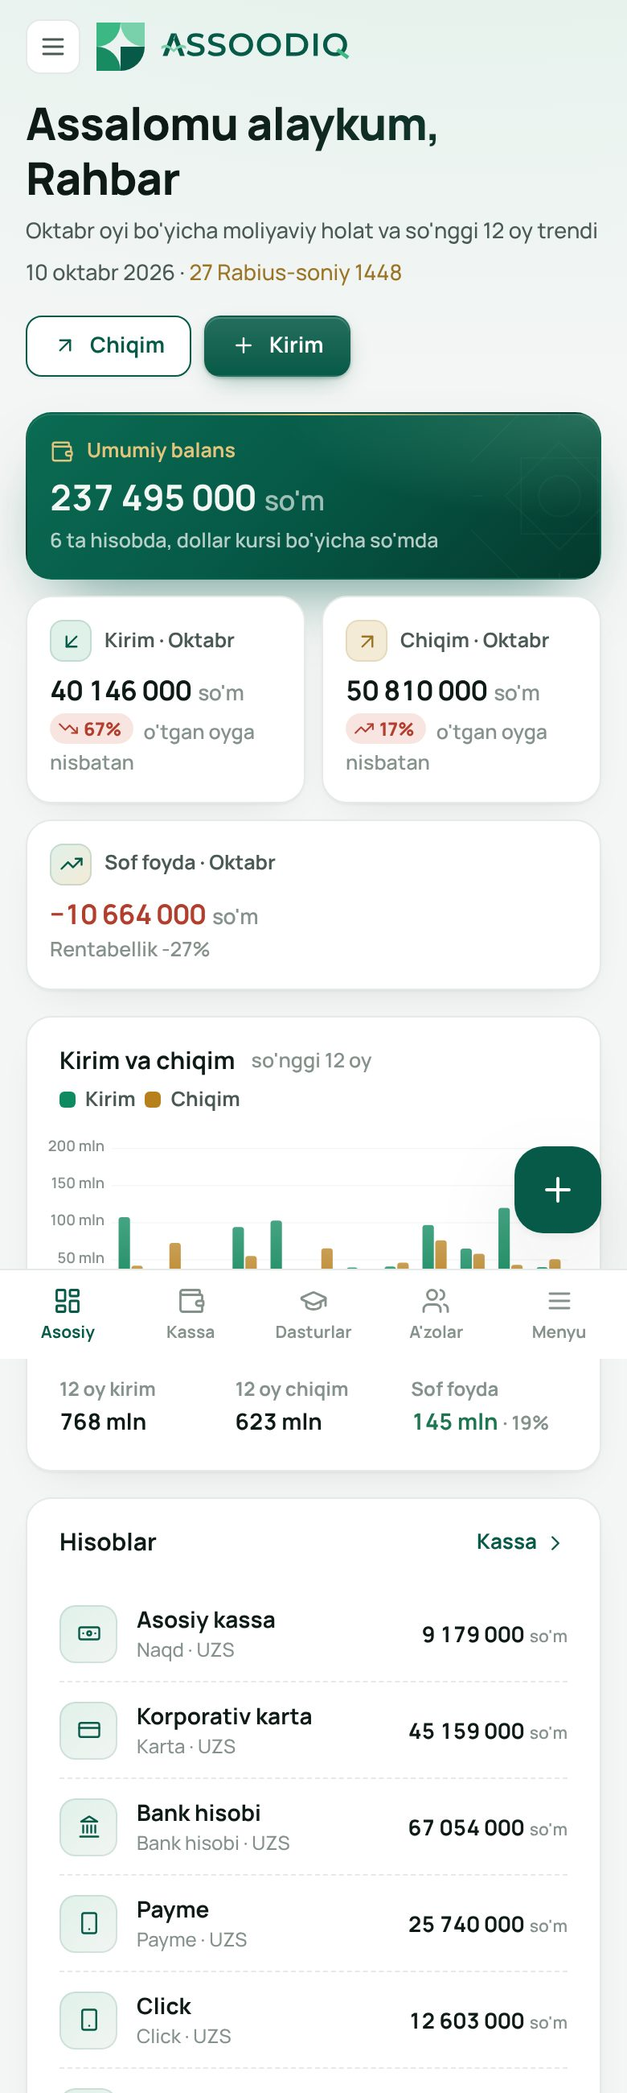
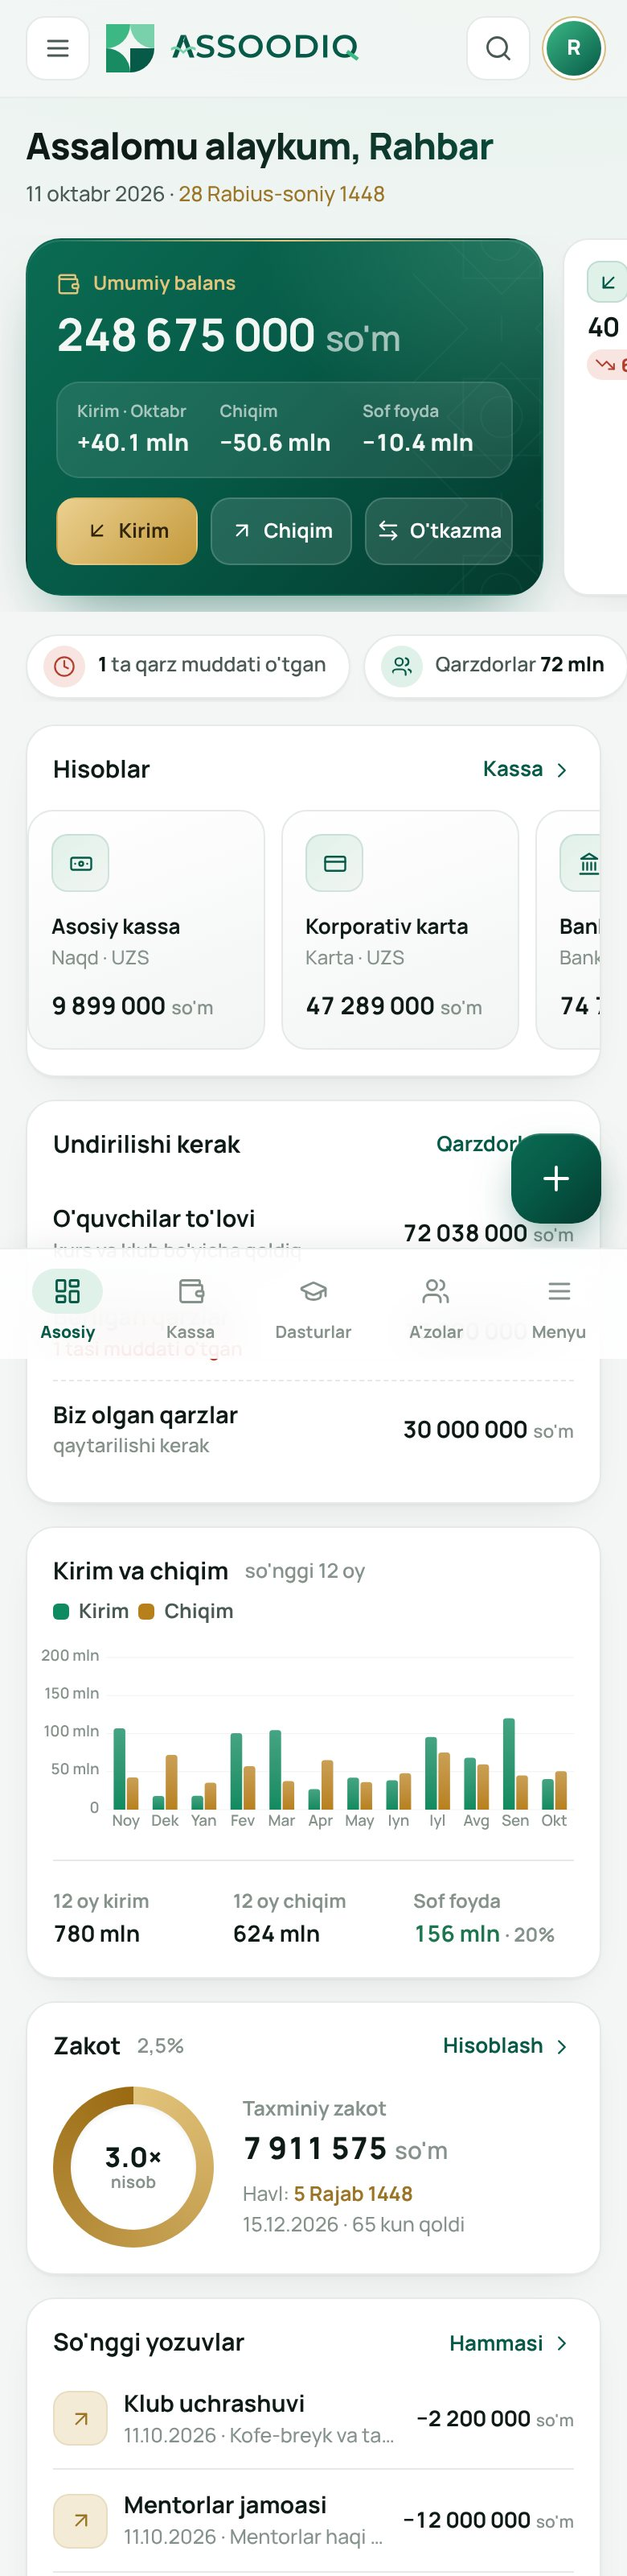
feat(mobil): premium telefon ko'rinishi, muhim ma'lumot birinchi
- Bosh sahifa: balans kartasida oy yakuni va tezkor amallar, diqqat chiplari,
  bloklar ahamiyat bo'yicha tartiblanadi, hisoblar karta lentasi
- Shisha yuqori panel (qidiruv, avatar) va pastki menyu, faol bo'lim belgisi
- Ichki sahifalar: amallar bitta qatorda, ixcham 2x2 ko'rsatkichlar
- A'zolar, dastur va qarz ro'yxatlari ixcham kartochkalar ko'rinishida
- Kassa: oy yakuni uchta aniq raqamda, hisoblar suriladigan lenta

Claude-Session: https://claude.ai/code/session_01DkcMtNmmPnFdSFcGHH43mz

diff --git a/static/css/app.css b/static/css/app.css
@@ -231,7 +231,8 @@ a.stat:hover { border-color: var(--line2); }
 a.stat { transition: box-shadow .2s, transform .2s, border-color .2s; }
 a.stat:hover, .prog:hover { box-shadow: var(--shadow-hover); transform: translateY(-2px); }
 /* Sahifa ochilganda kartalar yumshoq, ketma-ket paydo bo'ladi */
-.wrap > .head, .wrap > .stats > *, .wrap > .card, .wrap > .grid > *, .prog-grid > *, .wrap > .toolbar {
+.wrap > .head, .wrap > .stats > *, .wrap > .card, .wrap > .grid > *, .prog-grid > *, .wrap > .toolbar,
+.dash > .stats > *, .dash > .card, .dash > .grid > * {
   animation: rise .5s cubic-bezier(.2, .7, .2, 1) both; }
 .wrap > .stats > :nth-child(2) { animation-delay: .04s; } .wrap > .stats > :nth-child(3) { animation-delay: .08s; }
 .wrap > .stats > :nth-child(4) { animation-delay: .12s; } .wrap > .stats > :nth-child(n+5) { animation-delay: .16s; }
@@ -754,3 +755,147 @@ dialog.modal[open] { animation: pop .22s cubic-bezier(.2, .8, .2, 1); }
 .prog:hover::before { opacity: 1; }
 
 @media (prefers-reduced-motion: reduce) { .flash::after, dialog.modal[open] { animation: none !important; } }
+
+
+/* ══ Telefon: premium va muhim ma'lumot birinchi ══════════════════════════ */
+.hero-m, .m-alerts, .topbar-search, .topbar-av, .k-sum { display: none; }
+@media (max-width: 860px) {
+  body { font-size: 14.5px; }
+  .main { padding-top: 0; }
+  /* Yuqori panel: shisha, yopishqoq */
+  .topbar { position: sticky; top: 0; z-index: 40; margin: 0 -16px 16px; padding: 10px 16px; gap: 10px;
+    background: color-mix(in srgb, var(--bg) 80%, transparent); -webkit-backdrop-filter: saturate(1.4) blur(14px); backdrop-filter: saturate(1.4) blur(14px);
+    border-bottom: 1px solid color-mix(in srgb, var(--line) 80%, transparent); }
+  .topbar .icon-btn { width: 40px; height: 40px; border-radius: 12px; }
+  .topbar-search { display: grid; margin-left: auto; }
+  .topbar-av { display: grid; width: 34px; height: 34px; font-size: 13px; }
+  .head-t { font-size: 23px; letter-spacing: -.5px; }
+  .head { margin-bottom: 16px; gap: 12px; }
+  .card { border-radius: 18px; }
+  .card-h { padding: 16px 16px 0; }
+  .card-b { padding: 14px 16px 16px; }
+
+  /* Bosh sahifa: bloklar ahamiyat bo'yicha qayta tartiblanadi */
+  .dash { display: flex; flex-direction: column; gap: 14px; }
+  .dash > .grid { display: contents; }
+  .dash .mt { margin-top: 0; }
+  .dash > .o-stats { order: 1; } .dash > .o-alerts { order: 2; } .dash .o-acc { order: 3; }
+  .dash .o-due { order: 4; } .dash .o-chart { order: 5; } .dash .o-zakot { order: 6; }
+  .dash .o-recent { order: 7; } .dash .o-prog { order: 8; } .dash .o-exp { order: 9; }
+  .dash .o-attn { display: none; } /* yuqoridagi "diqqat" chiplari o'rnini bosadi */
+  .dash-head .head-a, .dash-head .head-s:not(.mob-only) { display: none; }
+
+  /* Balans + ko'rsatkichlar: suriladigan kartochkalar */
+  .dash .stats { display: flex; gap: 12px; overflow-x: auto; scroll-snap-type: x mandatory; margin: 0 -16px; padding: 2px 16px 10px; scrollbar-width: none; }
+  .dash .stats::-webkit-scrollbar { display: none; }
+  .dash .stats > .stat { flex: 0 0 74%; scroll-snap-align: start; scroll-margin-left: 16px; }
+  .dash .stats > .stat.hero { flex-basis: 90%; padding: 18px; border-radius: 22px; }
+  .dash .stat.hero .stat-v { font-size: 28px; letter-spacing: -.6px; }
+  .dash .stat.hero .stat-s { display: none; }
+  .dash .spark { display: block; }
+  .dash .has-spark .stat-l { padding-right: 84px; }
+  .hero-m { display: block; position: relative; z-index: 1; }
+  .hero-sum { display: grid; grid-template-columns: repeat(3, 1fr); gap: 8px; margin: 14px 0 12px; padding: 10px 12px; border-radius: 14px; background: rgba(255, 255, 255, .09); border: 1px solid rgba(255, 255, 255, .10); }
+  .hero-sum span { display: block; font-size: 10.5px; font-weight: 700; color: rgba(242, 247, 244, .65); white-space: nowrap; overflow: hidden; text-overflow: ellipsis; }
+  .hero-sum b { font-size: 14.5px; font-weight: 800; font-variant-numeric: tabular-nums; }
+  .hero-act { display: grid; grid-template-columns: repeat(3, 1fr); gap: 8px; }
+  .hero-act button { height: 42px; border-radius: 12px; border: 1px solid rgba(255, 255, 255, .16); background: rgba(255, 255, 255, .12); color: #fff; font: 700 12.5px var(--font); display: inline-flex; align-items: center; justify-content: center; gap: 6px; cursor: pointer; touch-action: manipulation; }
+  .hero-act button:first-child { background: linear-gradient(135deg, #EBD08F, #C49A3C); color: #33250A; border-color: transparent; }
+  .hero-act button:active { transform: scale(.97); }
+
+  /* Diqqat chiplari */
+  .m-alerts { display: flex; gap: 8px; overflow-x: auto; margin: 0 -16px; padding: 0 16px 2px; scrollbar-width: none; }
+  .m-alerts::-webkit-scrollbar { display: none; }
+  .m-alerts:empty { display: none; }
+  .m-alert { flex: none; display: inline-flex; align-items: center; gap: 8px; height: 40px; padding: 0 14px 0 10px; border-radius: 999px; background: var(--surface); border: 1px solid var(--line); box-shadow: var(--shadow); font-size: 12.5px; font-weight: 600; color: var(--txt2); white-space: nowrap; }
+  .m-alert .ic { width: 26px; height: 26px; padding: 6px; border-radius: 50%; background: var(--brand-bg); color: var(--brand-txt); }
+  .m-alert b { color: var(--txt); font-weight: 800; }
+  .m-alert.bad .ic { background: var(--bad-bg); color: var(--bad); }
+  .m-alert.warn .ic { background: var(--warn-bg); color: var(--warn); }
+  .m-alert.info .ic { background: var(--info-bg); color: var(--info); }
+  .m-alert.gold .ic { background: var(--gold-bg); color: var(--gold); }
+
+  /* Hisoblar: bank kartalaridek gorizontal lenta */
+  .o-acc .card-b { display: flex; gap: 10px; overflow-x: auto; scroll-snap-type: x mandatory; scrollbar-width: none; padding-bottom: 16px; }
+  .o-acc .card-b::-webkit-scrollbar { display: none; }
+  .o-acc .acc { flex: 0 0 148px; scroll-snap-align: start; flex-direction: column; align-items: flex-start; gap: 10px; padding: 14px; border: 1px solid var(--line); border-radius: 16px;
+    background: linear-gradient(160deg, var(--surface), var(--surface2)); }
+  .o-acc .acc .r { margin-left: 0; font-size: 15px; }
+  .o-acc .acc > div:nth-child(2) b { font-size: 13px; }
+
+  /* Daftar qatori: izoh bitta qatorda, summa aniq ko'rinadi */
+  .tx { gap: 10px; }
+  .tx-m span { display: block; white-space: nowrap; overflow: hidden; text-overflow: ellipsis; }
+  .tx-a { font-size: 13.5px; }
+  /* Dasturlar: telefonda faqat foyda va to'lov holati */
+  .o-prog td:nth-child(2), .o-prog td:nth-child(3) { display: none !important; }
+  /* Uzun ro'yxatlar qisqaradi */
+  .o-prog tbody tr:nth-child(n+4), .o-recent .tx:nth-child(n+6) { display: none; }
+
+  /* Kassa: hisob kartalari ham suriladi */
+  .acc-stats { display: flex; gap: 10px; overflow-x: auto; scroll-snap-type: x mandatory; margin: 0 -16px 14px; padding: 2px 16px 8px; scrollbar-width: none; }
+  .acc-stats::-webkit-scrollbar { display: none; }
+  .acc-stats .stat { flex: 0 0 58%; scroll-snap-align: start; scroll-margin-left: 16px; }
+
+  /* Sahifa sarlavhasi: amallar bitta qatorda, teng kenglikda */
+  .head > div:first-child { min-width: 0; }
+  .head-s { font-size: 13px; }
+  .head-a { flex-wrap: nowrap; gap: 8px; }
+  .head-a > .btn, .head-a > form { flex: 1 1 0; min-width: 0; }
+  .head-a > .btn { height: 42px; padding: 0 10px; font-size: 13px; justify-content: center; white-space: nowrap; overflow: hidden; text-overflow: ellipsis; border-radius: 12px; }
+  .head-a > .btn.solid { flex-grow: 1.4; }
+  .crumb { margin-bottom: 10px; }
+
+  /* Ichki sahifa ko'rsatkichlari: 2×2, ixcham va aniq */
+  .stats { gap: 10px; }
+  .stats > .stat { padding: 13px 14px; border-radius: 16px; }
+  .stats .stat-l { font-size: 12px; }
+  .stats .stat-v { font-size: 16.5px; margin-top: 6px; }
+  .stats .stat-s { font-size: 11.5px; margin-top: 4px; }
+
+  /* Ro'yxat kartochkalari: ism, so'ng raqamlar ustun-ustun, oxirida amal */
+  .table.tiles tbody tr { display: grid; grid-template-columns: repeat(3, minmax(0, 1fr)); gap: 10px 12px; padding: 14px 2px; }
+  .table.tiles.t2 tbody tr { grid-template-columns: repeat(2, minmax(0, 1fr)); }
+  .table.tiles td { width: auto; padding: 0; display: flex; flex-direction: column; align-items: flex-start; justify-content: flex-start; gap: 3px; text-align: left; font-size: 13.5px; font-weight: 650; min-width: 0; }
+  .table.tiles td.r { text-align: left; }
+  .table.tiles td:first-child, .table.tiles td.wide, .table.tiles td[colspan] { grid-column: 1 / -1; margin: 0; }
+  .table.tiles td:first-child .t-main { font-size: 15px; font-weight: 750; }
+  .table.tiles td .lbl { font-size: 10.5px; font-weight: 700; letter-spacing: .3px; text-transform: uppercase; }
+  .table.tiles td:empty { display: none; }
+  .table.tiles td:last-child:not(:first-child):not(:has(.lbl)) { grid-column: 1 / -1; flex-direction: row; align-items: center; gap: 8px; }
+  .table.tiles td:last-child .btn.sm { flex: 1; height: 38px; border-radius: 11px; font-size: 13px; }
+  .table.tiles td:last-child .more { margin-left: auto; }
+  .table.tiles td .bar { width: 100%; min-width: 0 !important; }
+
+  .stats > .stat:last-child:nth-child(odd) { grid-column: 1 / -1; }
+  .table.tiles td > div { width: 100%; }
+  .ayah { padding: 14px 16px; font-size: 13.5px; }
+
+  /* Kassa: oy yakuni uchta aniq raqamda */
+  .k-meta { display: none; }
+  .k-sum { display: grid; grid-template-columns: repeat(3, minmax(0, 1fr)); margin: -4px 0 14px; padding: 12px 4px; border-radius: 16px; background: var(--surface); border: 1px solid var(--line); box-shadow: var(--shadow); }
+  .k-sum > div { padding: 0 12px; min-width: 0; }
+  .k-sum > div + div { border-left: 1px solid var(--line); }
+  .k-sum span { display: block; font-size: 11px; font-weight: 700; color: var(--txt3); letter-spacing: .2px; }
+  .k-sum b { display: block; margin-top: 3px; font-size: 15px; font-weight: 800; font-variant-numeric: tabular-nums; white-space: nowrap; overflow: hidden; text-overflow: ellipsis; }
+
+  /* Pastki menyu: shisha va faol bo'lim belgisi */
+  .bottom-nav { background: color-mix(in srgb, var(--surface) 82%, transparent); -webkit-backdrop-filter: saturate(1.5) blur(16px); backdrop-filter: saturate(1.5) blur(16px);
+    border-top: 1px solid color-mix(in srgb, var(--line) 80%, transparent); box-shadow: 0 -8px 24px -12px rgba(14, 26, 21, .12); padding-top: 8px; }
+  .bottom-nav a, .bottom-nav button { gap: 4px; touch-action: manipulation; min-height: 48px; }
+  .bottom-nav .ic { width: 44px; height: 28px; padding: 5px 12px; border-radius: 999px; transition: background .2s; }
+  .bottom-nav .on .ic { background: var(--brand-bg); color: var(--brand-txt); }
+  .bottom-nav .on { font-weight: 800; }
+  .fab { width: 56px; height: 56px; border-radius: 18px; background: var(--grad-em); box-shadow: 0 1px 0 rgba(255, 255, 255, .15) inset, 0 12px 28px -8px rgba(6, 90, 71, .6); bottom: calc(84px + env(safe-area-inset-bottom)); }
+  .fab:active { transform: scale(.95); }
+
+  /* Pastdan chiqadigan oyna: tortish tutqichi */
+  .modal-h { padding-top: 24px; }
+  .modal-h::before { content: ""; position: absolute; top: 9px; left: 50%; width: 40px; height: 4px; margin-left: -20px; border-radius: 2px; background: var(--line2); }
+  .modal-f { padding-bottom: calc(16px + env(safe-area-inset-bottom)); }
+  .modal-f .btn { flex: 1; height: 46px; }
+}
+@media (max-width: 380px) {
+  .hero-sum b { font-size: 13px; }
+  .dash .stats > .stat { flex-basis: 80%; }
+}

diff --git a/templates/pages/dashboard.html b/templates/pages/dashboard.html
@@ -1,7 +1,7 @@
 {% extends "base.html" %}
 {% block title %}Bosh sahifa{% endblock %}
 {% block content %}
-<div class="head">
+<div class="head dash-head">
   <div>
     <div class="head-t">Assalomu alaykum, {{ g.user.name.split(' ')[0] }}</div>
     <div class="head-s">{{ month_name }} oyi bo'yicha moliyaviy holat va so'nggi 12 oy trendi</div>
@@ -13,11 +13,25 @@
   </div>
 </div>
 
-<div class="stats">
+<div class="dash">
+<div class="stats o-stats">
   <div class="stat hero">
     <div class="stat-l">{{ ui.icon('wallet', 'sm') }} Umumiy balans</div>
     <div class="stat-v">{{ ui.som(total) }}</div>
     <div class="stat-s">{{ accounts|length }} ta hisobda, dollar kursi bo'yicha so'mda</div>
+    {# Telefon: shu oy xulosasi va tez amallar balans kartasining o'zida #}
+    <div class="hero-m">
+      <div class="hero-sum">
+        <div><span>Kirim · {{ month_name }}</span><b>+{{ cur.income|short }}</b></div>
+        <div><span>Chiqim</span><b>−{{ cur.expense|short }}</b></div>
+        <div><span>Sof foyda</span><b>{{ cur.profit|short }}</b></div>
+      </div>
+      <div class="hero-act">
+        <button type="button" data-open="tx-modal" data-set-kind="kirim">{{ ui.icon('in', 'sm') }}Kirim</button>
+        <button type="button" data-open="tx-modal" data-set-kind="chiqim">{{ ui.icon('out', 'sm') }}Chiqim</button>
+        <button type="button" data-open="tx-modal" data-set-kind="otkazma">{{ ui.icon('swap', 'sm') }}O'tkazma</button>
+      </div>
+    </div>
   </div>
   <div class="stat has-spark">
     {{ ui.spark(series|map(attribute='income'), 'in', 'var(--chart-in)', '12 oylik kirim trendi') }}
@@ -39,8 +53,17 @@
   </div>
 </div>
 
+{# Telefon: e'tibor talab qiladigan narsalar — balansdan keyin darhol #}
+<div class="m-alerts o-alerts" aria-label="Diqqat talab">
+  {% if debts.overdue %}<a class="m-alert bad" href="{{ url_for('qarz.debts', holat='otgan') }}">{{ ui.icon('clock', 'sm') }}<span><b>{{ debts.overdue }}</b> ta qarz muddati o'tgan</span></a>{% endif %}
+  {% if member_due > 0 %}<a class="m-alert" href="{{ url_for('dastur.members', holat='qarzdor') }}">{{ ui.icon('users', 'sm') }}<span>Qarzdorlar <b>{{ member_due|short }}</b></span></a>{% endif %}
+  {% if expiring %}<a class="m-alert info" href="{{ url_for('dastur.members', holat='tugayapti') }}">{{ ui.icon('renew', 'sm') }}<span><b>{{ expiring|length }}</b> ta obuna tugayapti</span></a>{% endif %}
+  {% if purif.remaining > 0 %}<a class="m-alert warn" href="{{ url_for('islomiy.purity') }}">{{ ui.icon('shield', 'sm') }}<span>Tozalash <b>{{ purif.remaining|short }}</b></span></a>{% endif %}
+  {% if hawl %}<a class="m-alert gold" href="{{ url_for('islomiy.zakat') }}">{{ ui.icon('coins', 'sm') }}<span>Zakot <b>{{ hawl.days }}</b> kunda</span></a>{% endif %}
+</div>
+
 <div class="grid g-main">
-  <div class="card">
+  <div class="card o-chart">
     <div class="card-h">
       <h3>Kirim va chiqim</h3><span class="sub">so'nggi 12 oy</span>
       <div class="act legend"><span><i style="background:var(--chart-in)"></i>Kirim</span><span><i style="background:var(--chart-out)"></i>Chiqim</span></div>
@@ -56,7 +79,7 @@
     </div>
   </div>
 
-  <div class="card">
+  <div class="card o-acc">
     <div class="card-h"><h3>Hisoblar</h3><div class="act"><a class="link" href="{{ url_for('kassa.ledger') }}">Kassa {{ ui.icon('right', 'sm') }}</a></div></div>
     <div class="card-b">
       {% for r in accounts %}
@@ -73,7 +96,7 @@
 </div>
 
 <div class="grid g-3 mt">
-  <div class="card">
+  <div class="card o-zakot">
     <div class="card-h"><h3>Zakot</h3><span class="sub">2,5%</span><div class="act"><a class="link" href="{{ url_for('islomiy.zakat') }}">Hisoblash {{ ui.icon('right', 'sm') }}</a></div></div>
     <div class="card-b" style="display:flex;gap:18px;align-items:center">
       {% set ratio = (zakat.base / nisob) if nisob else 0 %}
@@ -95,7 +118,7 @@
     </div>
   </div>
 
-  <div class="card">
+  <div class="card o-due">
     <div class="card-h"><h3>Undirilishi kerak</h3><div class="act"><a class="link" href="{{ url_for('dastur.members', holat='qarzdor') }}">Qarzdorlar {{ ui.icon('right', 'sm') }}</a></div></div>
     <div class="card-b">
       <div class="zrow"><div><label>O'quvchilar to'lovi</label><small>kurs va klub bo'yicha qoldiq</small></div><b>{{ ui.som(member_due) }}</b></div>
@@ -104,7 +127,7 @@
     </div>
   </div>
 
-  <div class="card">
+  <div class="card o-attn">
     <div class="card-h"><h3>Diqqat talab</h3></div>
     <div class="card-b">
       {% if purif.remaining > 0 %}
@@ -122,7 +145,7 @@
 </div>
 
 <div class="grid g-main mt">
-  <div class="card">
+  <div class="card o-prog">
     <div class="card-h"><h3>Dasturlar bo'yicha natija</h3><div class="act"><a class="link" href="{{ url_for('hisobot.pnl') }}">Hisobot {{ ui.icon('right', 'sm') }}</a></div></div>
     <div class="card-b" style="padding-top:6px">
       <div class="table-wrap">
@@ -146,7 +169,7 @@
     </div>
   </div>
 
-  <div class="card">
+  <div class="card o-exp">
     <div class="card-h"><h3>Bu oy xarajatlari</h3><span class="sub">guruhlar bo'yicha</span></div>
     <div class="card-b">
       {% for e in expenses %}
@@ -161,12 +184,14 @@
   </div>
 </div>
 
-<div class="card mt">
+<div class="card mt o-recent">
   <div class="card-h"><h3>So'nggi yozuvlar</h3><div class="act"><a class="link" href="{{ url_for('kassa.ledger') }}">Hammasi {{ ui.icon('right', 'sm') }}</a></div></div>
   <div class="card-b" style="padding-top:4px">
     {% for t in recent %}{{ ui.tx_row(t) }}{% else %}<div class="empty"><b>Yozuv yo'q</b>Birinchi kirim yoki chiqimni qo'shing.</div>{% endfor %}
   </div>
 </div>
+
+</div>{# .dash #}
 
 {{ ui.tx_modal('tx-modal', accounts, f_categories, f_programs, aqd_types, shariat_types, next_url=request.path) }}
 {% endblock %}

diff --git a/templates/base.html b/templates/base.html
@@ -12,7 +12,7 @@
   <link rel="preconnect" href="https://fonts.googleapis.com">
   <link rel="preconnect" href="https://fonts.gstatic.com" crossorigin>
   <link href="https://fonts.googleapis.com/css2?family=Manrope:wght@400;500;600;700;800&display=swap" rel="stylesheet">
-  <link rel="stylesheet" href="{{ url_for('static', filename='css/app.css') }}?v=12">
+  <link rel="stylesheet" href="{{ url_for('static', filename='css/app.css') }}?v=14">
   <script>
     document.documentElement.classList.add('js');
     try { var t = localStorage.getItem('theme'); if (t) document.documentElement.dataset.theme = t; } catch (e) {}
@@ -71,6 +71,8 @@
       <div class="topbar">
         <button class="icon-btn" type="button" data-nav-open>{{ ui.icon('menu') }}</button>
         <a class="topbar-logo" href="/" aria-label="Assoodiq">{% include "partials/mark.svg" %}{% include "partials/wordmark.svg" %}</a>
+        <a class="icon-btn topbar-search" href="{{ url_for('qidiruv.search') }}" aria-label="Qidirish">{{ ui.icon('search') }}</a>
+        <span class="avatar topbar-av" aria-hidden="true">{{ g.user.name[:1] }}</span>
       </div>
       {% if demo_mode %}
       <div class="demo-bar" role="status">{{ ui.icon('info', 'sm') }}<span><b>Test rejimi:</b> namuna ma'lumotlar bilan ishlayapsiz. Haqiqiy ishni boshlashdan oldin ularni tozalang.</span>{% if g.user.role == 'rahbar' %}<a class="link" href="{{ url_for('sozlama.index', bolim='malumotlar') }}">Tozalash {{ ui.icon('right', 'sm') }}</a>{% endif %}</div>
@@ -95,7 +97,7 @@
   {% for cat, msg in get_flashed_messages(with_categories=true) %}<div class="flash {{ cat }}" role="{{ 'alert' if cat == 'bad' else 'status' }}">{{ ui.icon('alert' if cat == 'bad' else 'check', 'sm') }}<span>{{ msg }}</span></div>{% endfor %}
 </div>
 {% endblock %}
-<script src="{{ url_for('static', filename='js/app.js') }}?v=12"></script>
+<script src="{{ url_for('static', filename='js/app.js') }}?v=14"></script>
 {% block scripts %}{% endblock %}
 </body>
 </html>

diff --git a/templates/pages/members.html b/templates/pages/members.html
@@ -21,14 +21,14 @@
 
 <div class="card">
   <div class="table-wrap">
-  <table class="table cards">
+  <table class="table cards tiles">
     <thead><tr><th>A'zo</th><th>Dasturlar</th><th class="r">To'lagan</th><th class="r">Qoldiq</th><th></th></tr></thead>
     <tbody>
     {% for r in rows %}
     {% set m = r.member %}
     <tr>
       <td><a href="{{ url_for('dastur.member', mid=m.id) }}"><div class="t-main">{{ m.full_name }}</div><div class="t-sub">{{ m.business or '—' }}{% if m.phone %} · {{ m.phone }}{% endif %}</div></a></td>
-      <td><span class="lbl">Dasturlar</span><span>{% for p in r.programs[:2] %}<span class="pill {{ 'gold' if p.kind == 'klub' else '' }}" style="margin:1px">{{ p.name|truncate(28, True, '…') }}</span>{% endfor %}{% if r.programs|length > 2 %} <span class="faint">+{{ r.programs|length - 2 }}</span>{% endif %}</span></td>
+      <td class="wide"><span class="lbl">Dasturlar</span><span>{% for p in r.programs[:2] %}<span class="pill {{ 'gold' if p.kind == 'klub' else '' }}" style="margin:1px">{{ p.name|truncate(28, True, '…') }}</span>{% endfor %}{% if r.programs|length > 2 %} <span class="faint">+{{ r.programs|length - 2 }}</span>{% endif %}</span></td>
       <td class="r"><span class="lbl">To'lagan</span>{{ r.paid|num }}</td>
       <td class="r"><span class="lbl">Qoldiq</span>{% if r.due > 0 %}<b class="bad-t">{{ r.due|num }}</b>{% else %}<span class="faint">—</span>{% endif %}</td>
       <td class="r">{% if r.expiring %}<span class="pill warn">Obuna tugayapti</span>{% endif %}</td>

diff --git a/templates/pages/kassa.html b/templates/pages/kassa.html
@@ -5,13 +5,18 @@
 <div class="head">
   <div>
     <div class="head-t">Kassa</div>
-    <div class="head-s">{{ month_name }}: kirim <b class="ok-t">{{ totals.income|num }}</b> · chiqim <b>{{ totals.expense|num }}</b> · sof <b>{{ totals.profit|num }}</b> so'm</div>
+    <div class="head-s k-meta">{{ month_name }}: kirim <b class="ok-t">{{ totals.income|num }}</b> · chiqim <b>{{ totals.expense|num }}</b> · sof <b>{{ totals.profit|num }}</b> so'm</div>
   </div>
   <div class="head-a">
     {% if g.user.role != 'menejer' %}<a class="btn ghost" href="{{ url_for('kassa.export', **request.args) }}" title="Ko'rsatilgan yozuvlarni Excel'ga">{{ ui.icon('download', 'sm') }} Excel</a>{% endif %}
     {% if g.user.role != 'menejer' %}<button class="btn outline" data-open="tx-modal" data-set-kind="chiqim">{{ ui.icon('out', 'sm') }} Chiqim</button>{% endif %}
     <button class="btn solid" data-open="tx-modal" data-set-kind="kirim">{{ ui.icon('plus', 'sm') }} Kirim</button>
   </div>
+</div>
+<div class="k-sum" aria-label="{{ month_name }} yakuni">
+  <div><span>Kirim</span><b class="ok-t">{{ totals.income|short }}</b></div>
+  <div><span>Chiqim</span><b>{{ totals.expense|short }}</b></div>
+  <div><span>Sof foyda</span><b class="{{ 'bad-t' if totals.profit < 0 else 'ok-t' }}">{{ totals.profit|short }}</b></div>
 </div>
 
 <div class="stats acc-stats">

diff --git a/templates/pages/program.html b/templates/pages/program.html
@@ -40,7 +40,7 @@
     </div>
     <div class="card-b" style="padding-top:8px">
       <div class="table-wrap">
-      <table class="table cards">
+      <table class="table cards tiles">
         <thead><tr><th>A'zo</th><th class="r">Hisoblangan</th><th class="r">To'langan</th><th class="r">Qoldiq</th>{% if p.kind == 'klub' %}<th>Obuna</th>{% endif %}<th></th></tr></thead>
         <tbody>
         {% for r in rows %}

diff --git a/templates/pages/debts.html b/templates/pages/debts.html
@@ -30,7 +30,7 @@
 
 <div class="card">
   <div class="table-wrap">
-  <table class="table cards">
+  <table class="table cards tiles t2">
     <thead><tr><th>Kim</th><th>Turi</th><th class="r">Qarz</th><th class="r">Qoldiq</th><th>Muddat</th><th></th></tr></thead>
     <tbody>
     {% for r in rows %}
